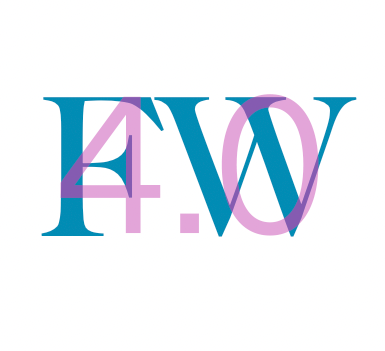
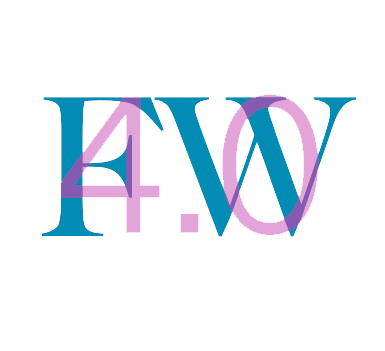
edited links to all projects, small style changes. added transparency to all pictures.

diff --git a/src/assets/data/siteData.js b/src/assets/data/siteData.js
@@ -32,7 +32,7 @@ export const contact = [
 // project info
 export const projects = [
     {
-        title: "PRJ1: Space Explorer",
+        title: "Space Explorer",
         deploymentDate: "April 3rd, 2021",
         description: "Through the power of NASA's incredible API's, generate a user-unique dashboard to let you explore space your own way!",
         techUsed: "HTML, CSS, JavaScript, JQuery",
@@ -42,7 +42,7 @@ export const projects = [
         page: "https://forestw70.github.io/SpaceExplorer/",
     },
     {
-        title: "PRJ2: ViBlocks",
+        title: "ViBlocks",
         deploymentDate: "June 1st, 2021",
         description: "Web-based DAW (digital audio workstation) that lets you sign up for an account, create and edit live music loops via a sequencer, and save your projects indevidually. Not exactly as polished as I would have liked, but very proud of my team for developing this on such a tight schedule.",
         techUsed: "HTML, CSS, JavaScript, MySQL, Sequelize, Handlebars.js, Express.js, Heroku deployment",
@@ -52,7 +52,7 @@ export const projects = [
         page: "https://viblocks.herokuapp.com/",
     },
     {
-        title: "PRJ3: Pandora's Box",
+        title: "Pandora's Box",
         deploymentDate: "July 29th, 2021",
         description: "Using our new knowledge of React, our team set out to create a website that uses Spotify's music library API to allow a user to search, favorite, sort, and review albums using our web interface. Unfortunatly we were unable to build the app to our fullest intent, however we were able to implement many important features such as interfacing with large sets of music data, and a personal profile with favorited albums.",
         techUsed: "React, MongoDB/Mongoose, GraphQL, ApolloDB, Express, JSON web tokens",
@@ -62,24 +62,34 @@ export const projects = [
         page: "/beepboopnotfound",
     },
     {
+        title: "HTML Fan Page",
+        deploymentDate: "February 15th, 2021",
+        description: "For Sophie, a musician gone too soon.",
+        techUsed: "HTML",
+        image: "proj-icons/hw0icon.png",
+        imageAlt: "Vyzee",
+        repo: "https://github.com/ForestW70/Week-0-HTML-Fanpage",
+        page: "https://forestw70.github.io/Week-0-HTML-Fanpage/",
+    },
+    {
         title: "Code Refactor",
         deploymentDate: "February 20th, 2021",
-        description: "Given poorly written code, our task was to refactor the HTML and CSS to be more effecient and less confusing.",
-        techUsed: "CSS",
+        description: "Given poorly written code, I refactored the HTML and CSS to be more effecient and less confusing.",
+        techUsed: "HTML, CSS",
         image: "proj-icons/hw1icon.png",
         imageAlt: "refactored homepage",
-        repo: "https://github.com/ForestW70/hw1coderefactor",
+        repo: "https://github.com/ForestW70/Week-1-Code-Refactor",
         page: "/beepboopnotfound",
     },
     {
-        title: "First Portfolio",
+        title: "Portfolio1.0",
         deploymentDate: "March 4th, 2021",
         description: "First attempt at creating a portfolio site from scratch. Oh how far we've come!",
         techUsed: "HTML, CSS",
         image: "proj-icons/hw2icon.png",
         imageAlt: "first portfolio",
-        repo: "https://github.com/ForestW70/hw2portfolio",
-        page: "https://forestw70.github.io/hw2portfolio/",
+        repo: "https://github.com/ForestW70/Portfolio1.0",
+        page: "https://forestw70.github.io/Portfolio1.0/",
     },
     {
         title: "Password Generator",
@@ -88,8 +98,8 @@ export const projects = [
         techUsed: "HTML, CSS, JavaScript",
         image: "proj-icons/hw3icon.png",
         imageAlt: "password generator homepage",
-        repo: "https://github.com/ForestW70/hw3passwordgenerator",
-        page: "https://forestw70.github.io/hw3passwordgenerator/",
+        repo: "https://github.com/ForestW70/Week-3-Password-Generator",
+        page: "https://forestw70.github.io/Week-3-Password-Generator/",
     },
     {
         title: "Code Quiz",
@@ -98,8 +108,8 @@ export const projects = [
         techUsed: "HTML, CSS, JavaScript",
         image: "proj-icons/hw4icon.png",
         imageAlt: "code quiz page",
-        repo: "https://github.com/ForestW70/hw4codequiz",
-        page: "https://forestw70.github.io/hw4codequiz/",
+        repo: "https://github.com/ForestW70/Week-4-Code-Quiz",
+        page: "https://forestw70.github.io/Week-4-Code-Quiz/",
     },
     {
         title: "Work Day Scheduler",
@@ -108,18 +118,18 @@ export const projects = [
         techUsed: "JavaScript, JQuery",
         image: "proj-icons/hw5icon.png",
         imageAlt: "planner page",
-        repo: "https://github.com/ForestW70/hw5workdayscheduler",
-        page: "https://forestw70.github.io/hw5workdayscheduler/",
+        repo: "https://github.com/ForestW70/Week-5-Workday-Scheduler",
+        page: "https://forestw70.github.io/Week-5-Workday-Scheduler/",
     },
     {
         title: "Weather Dashboard",
         deploymentDate: "April 13rd, 2021",
         description: "Want to know what the weather is like in your area but dont own a window or a door? Just search your city to get today's forecast along with the upcoming 5 days. You may also search cities around the world!",
-        techUsed: "HTML, CSS, JavaScript, JQuery",
+        techUsed: "HTML, CSS, JavaScript, JQuery, OpenWeather API",
         image: "proj-icons/hw6icon.png",
         imageAlt: "forecast page",
-        repo: "https://github.com/ForestW70/hw6weatherdashboard",
-        page: "https://forestw70.github.io/hw6weatherdashboard/",
+        repo: "https://github.com/ForestW70/Week-6-Weather-Dashboard",
+        page: "https://forestw70.github.io/Week-6-Weather-Dashboard/",
     },
     {
         title: "Portfolio2.0",
@@ -138,18 +148,18 @@ export const projects = [
         techUsed: "JavaScript, Node.js, Inquirer",
         image: "proj-icons/hw9icon.png",
         imageAlt: "Readme Generator",
-        repo: "https://github.com/ForestW70/hw9nodereadmegenerator",
+        repo: "https://github.com/ForestW70/Week-9-Node-Readme-Generator",
         page: "",
         demo: "https://youtu.be/SuuVYTpCeO4",
     },
     {
         title: "Team Profile Generator",
         deploymentDate: "April 27th, 2021",
-        description: "I'll soon be needing to hire a whole lot of developers and interns for my multi-brand conglomerate, so for this Node project I have created an input prompt to let me manage and view my growing team.",
+        description: "I'll soon be needing to hire a whole lot of developers and interns for my multi-brand conglomerate, so for this Node project I have created an input prompt program to let me manage and view my growing team.",
         techUsed: "HTML, CSS, JavaScript, Node.js, Inquirer",
         image: "proj-icons/hw10icon.png",
         imageAlt: "team page",
-        repo: "https://github.com/ForestW70/hw10teamprofilegenerator",
+        repo: "https://github.com/ForestW70/Week-10-Team-Profile-Generator",
         page: "",
         demo: "https://youtu.be/q5OVMxwlkuU",
     },
@@ -160,7 +170,7 @@ export const projects = [
         techUsed: "HTML, CSS, Express.js, Heroku deployment",
         image: "proj-icons/hw11icon.png",
         imageAlt: "note page",
-        repo: "https://github.com/ForestW70/hw11notetaker",
+        repo: "https://github.com/ForestW70/Week-11-Note-Taker",
         page: "https://notetaker3456.herokuapp.com/notes",
     },
     {
@@ -170,18 +180,18 @@ export const projects = [
         techUsed: "Node.js, Inquirer, Console.table package, MySQL",
         image: "proj-icons/hw12icon.png",
         imageAlt: "shell screen",
-        repo: "https://github.com/ForestW70/hw12employeetracker",
+        repo: "https://github.com/ForestW70/Week-12-Employee-Tracker",
         page: "",
         demo: "https://youtu.be/x-xalO1bMd8",
     },
     {
         title: "E-commerce Backend",
         deploymentDate: "June 24th, 2021",
-        description: "Are you trying to start your own eBay but arent sure how to connect to your pesky server? Well fear not, because in this project I created a RESTful API that handles it for you.",
+        description: "Are you trying to start your own eBay but arent sure how to manage your ever-growing inventory? Well fear not, because in this project I created a RESTful API that handles it for you.",
         techUsed: "Node.js, MySql, Express.js, Insomnia/Postman",
         image: "proj-icons/hw13icon.png",
         imageAlt: "shell screen",
-        repo: "https://github.com/ForestW70/hw13ecommercebackend",
+        repo: "https://github.com/ForestW70/Week-13-eCommerce-Backend",
         page: "",
         demo: "https://youtu.be/y_LAilM1hRY",
     },
@@ -192,13 +202,13 @@ export const projects = [
         techUsed: "JavaScript, MySql, Handlebars, Express.js, Heroku deployment",
         image: "proj-icons/hw14icon.png",
         imageAlt: "shell screen",
-        repo: "https://github.com/ForestW70/hw14techblog",
+        repo: "https://github.com/ForestW70/Week-14-Tech-Blog",
         page: "https://techblog3456.herokuapp.com/home",
     },
     {
         title: "Portfolio3.0",
         deploymentDate: "July 22nd, 2021",
-        description: "Version 3 of my portfolio. Well, more like 2.5. Since I was already deep into this portfolio by the time I realized this was an assignment, there are few changes. Most notibly is the addition of the resume page, which uses tables to display my resume.",
+        description: "Version 3 of my portfolio. Well, more like 2.5. Since I was already deep into this portfolio by the time I realized this was an assignment, there are few changes. Most notibly is the addition of the resume page, which uses HTML tables to display my resume's information.",
         techUsed: "HTML, CSS, JavaScript",
         image: "proj-icons/hw16icon.png",
         imageAlt: "Portfolio 3",
@@ -222,27 +232,27 @@ export const projects = [
         techUsed: "JavaScript, Express, MongoDB/IndexedDB, Service worker/manifest, Heroku deployment, Mongo Atlas",
         image: "proj-icons/hw19icon.png",
         imageAlt: "money money money",
-        repo: "https://github.com/ForestW70/hw19offlinebudgettracker",
+        repo: "https://github.com/ForestW70/Week-19-Offline-Budget-Tracker",
         page: "https://budgettracker3456.herokuapp.com/",
     },
     {
-        title: "React portfolio",
+        title: "Portfolio4.0",
         deploymentDate: "July 28th, 2021",
         description: "React portfolio? You're looking at it! Initially I wanted to have an extra tab for a blog, where I'd describe my daily doings, however I'm more keen to deploying projects than describing them, so that tab was removed. Whats left? A very nice react portfolio if I do say so myself.",
         techUsed: "React.js, React Hooks, Heroku deployment",
         image: "proj-icons/reactporticon.png",
         imageAlt: "React Portfolio",
-        repo: "https://github.com/ForestW70/portfolio-react",
+        repo: "https://github.com/ForestW70/Portfolio4.0",
         page: "https://forestwilson.herokuapp.com/",
     },
     {
         title: "Booksearch Engine",
         deploymentDate: "July 30th, 2021",
-        description: "My final individual project before graduation! A full-stack MERN app that utilizes Google Book's API to browse and manage lists of favorited books. It was a real race to the finish with this one, so there are still bugs here and there along with an unfinished readme.",
+        description: "My final individual project before graduation! A full-stack MERN app that utilizes Google Book's API to browse and manage lists of favorited books. It was a real race to the finish with this one, so there are still bugs here and there.",
         techUsed: "React, Express, GraphQL, Mongoose, JSON Web tokens",
         image: "proj-icons/hw21icon.png",
         imageAlt: "Book search",
-        repo: "https://github.com/ForestW70/hw21booksearchengine",
+        repo: "https://github.com/ForestW70/Week-21-Book-Search-Engine",
         page: "/beepboopnotfound",
     }
     

diff --git a/public/index.html b/public/index.html
@@ -3,7 +3,7 @@
 
 <head>
   <meta charset="utf-8" />
-  <link rel="icon" href="%PUBLIC_URL%/proj-icons/thisicon.png" />
+  <link rel="icon" href="%PUBLIC_URL%/proj-icons/hw2icon.png" />
   <meta name="viewport" content="width=device-width, initial-scale=1" />
   <meta name="theme-color" content="#000000" />
   <meta name="description" content="Web site created using create-react-app" />

diff --git a/src/components/projects.js b/src/components/projects.js
@@ -81,7 +81,7 @@ export default function Projects() {
     return (
         <div>
             <HeroDisplay />
-            <p><strong>Bootcamp assignments:</strong></p>
+            <p><strong>Project list:</strong></p>
             <LilGuys />
         </div>
     )
